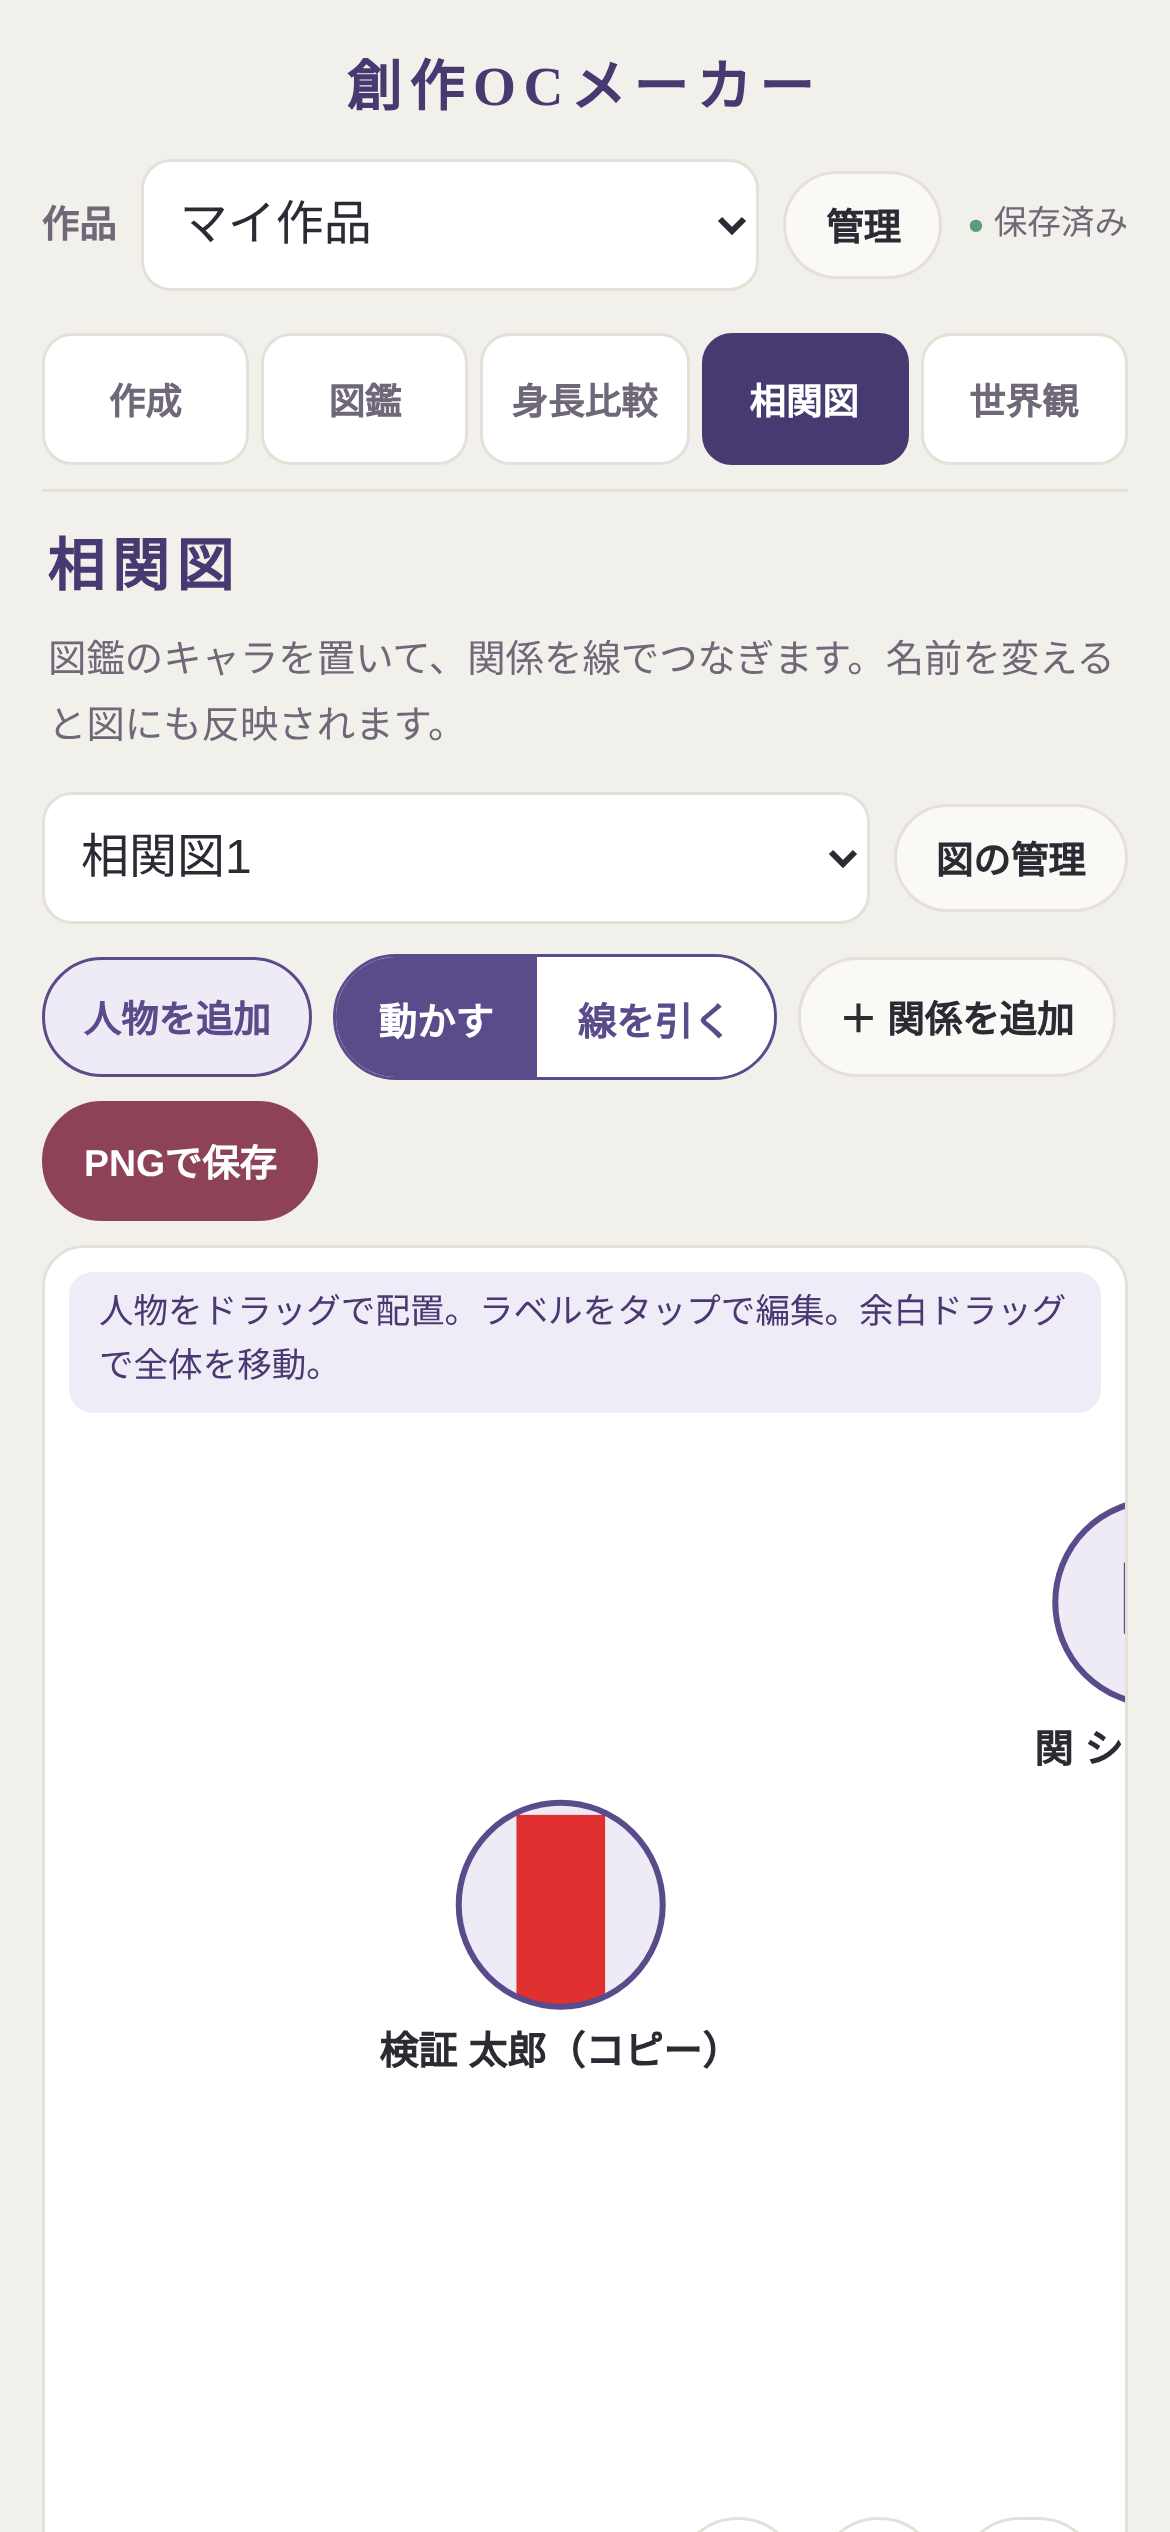
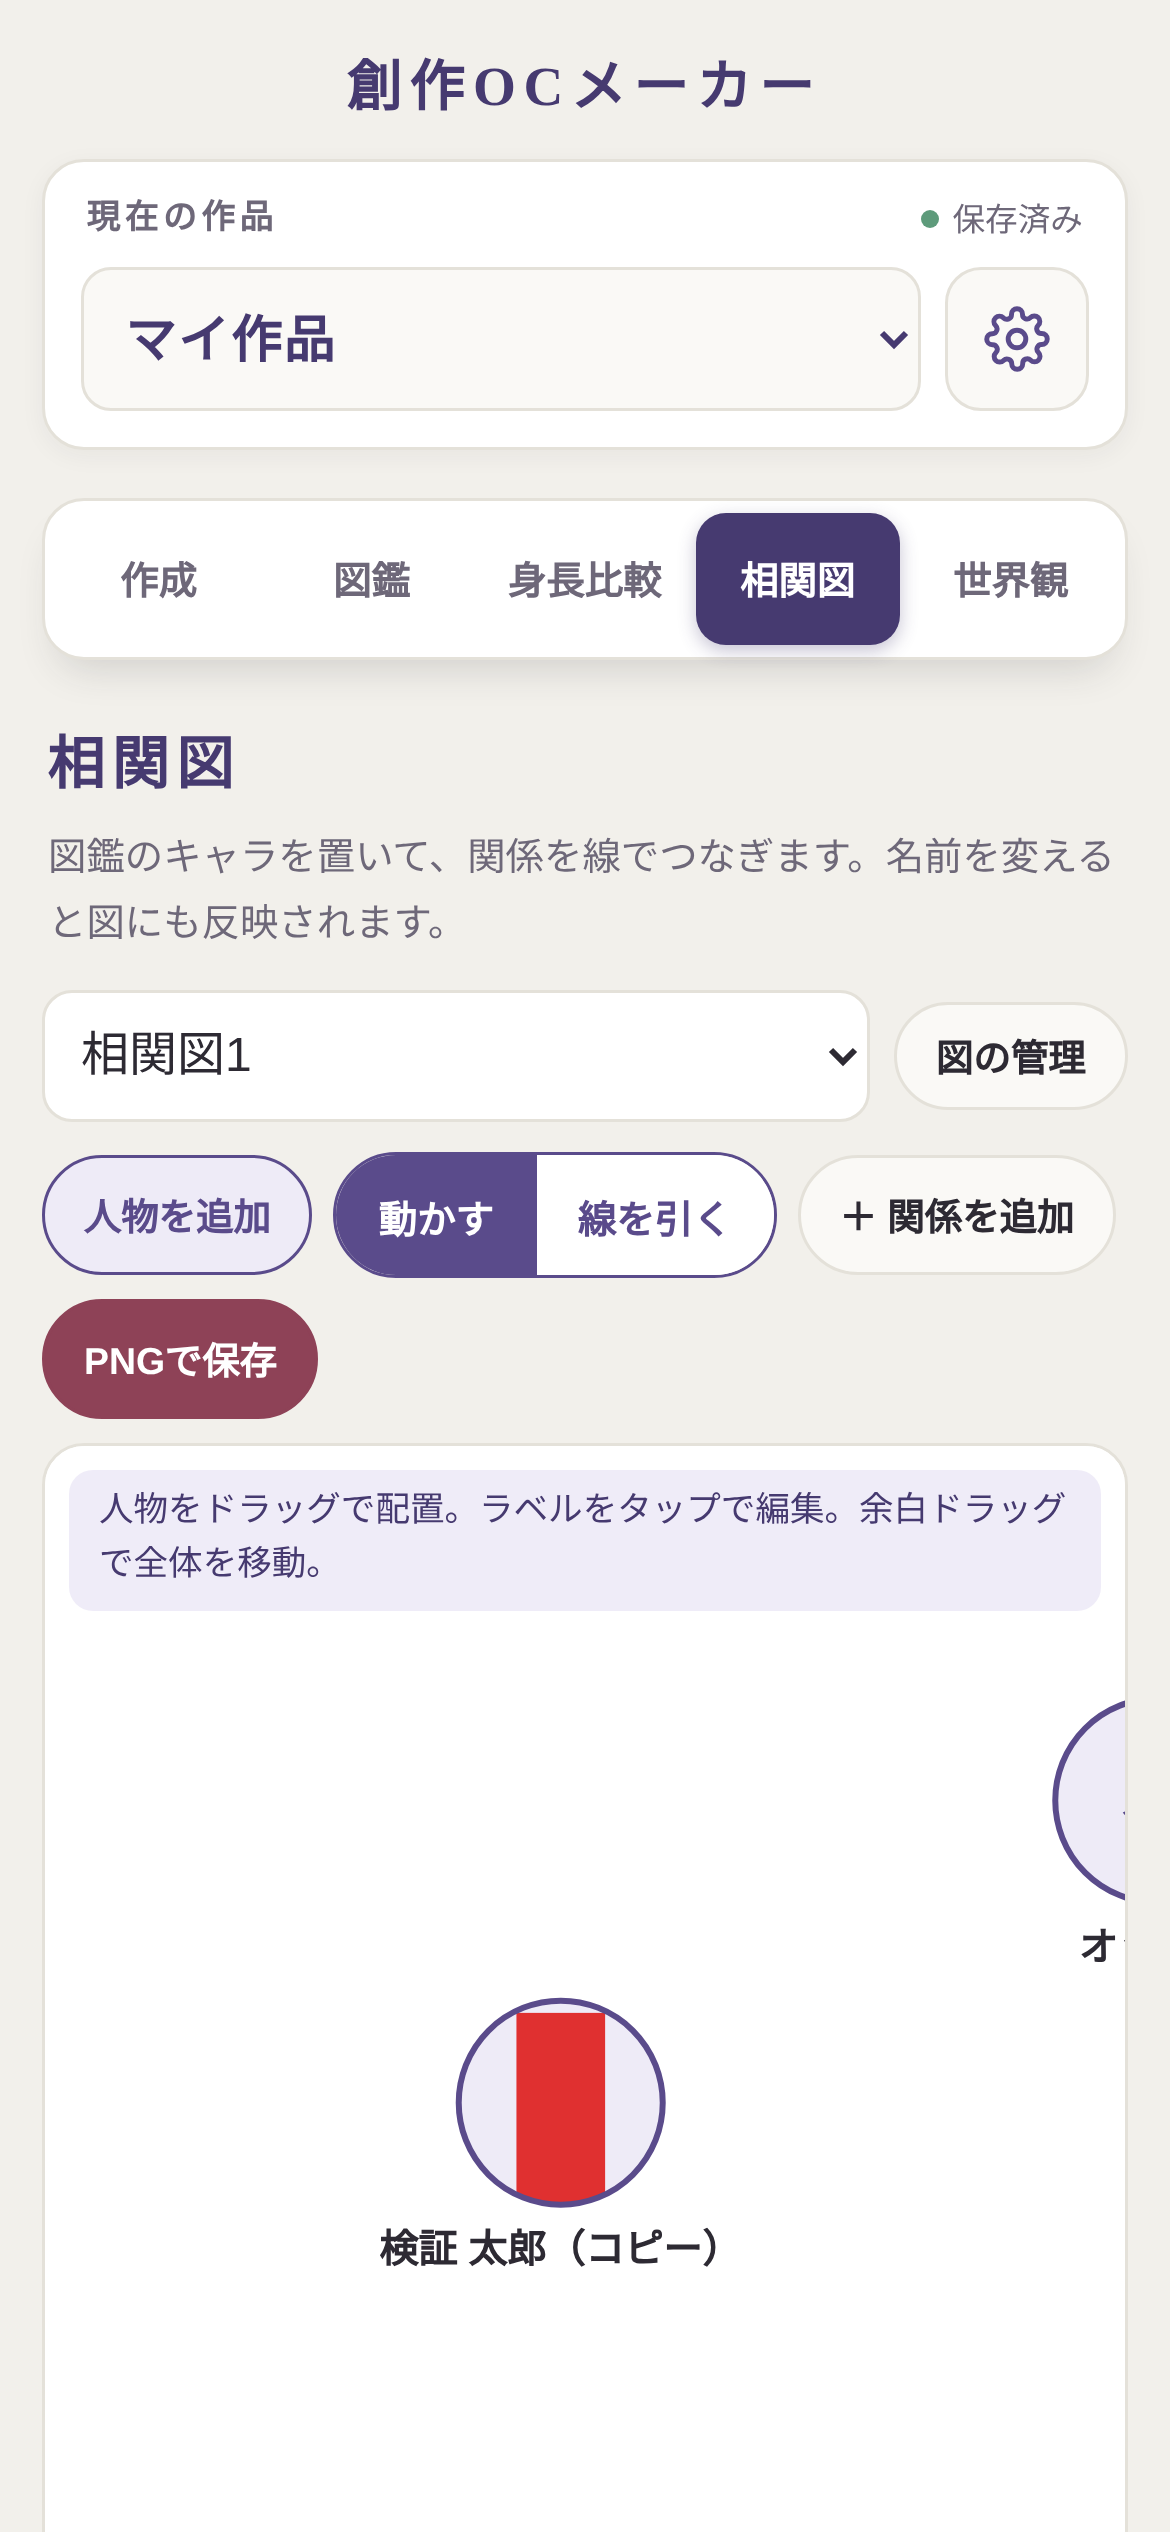
v2.0.1: 画面上部のレイアウト整理と名前辞典の版数表記の統一（表示のみ）
- 「現在の作品」を独立セクション化、管理は歯車ボタン、保存状態は見出し行の右へ
- 5タブを一体型の切り替えバーにし、スマホ幅向けに文字・余白・幅を調整
- 「ガチャ／名前辞典」を下線型の下位メニューにして主タブと区別
- 名前辞典のタイトルとヘッダーをv2.0に統一（機能・データは変更なし）

Claude-Session: https://claude.ai/code/session_0137U42XBBGUmL8RNiqbLuA1

diff --git a/css/studio.css b/css/studio.css
@@ -1,21 +1,34 @@
 /* 創作OCメーカー v2.0 — 図鑑・身長比較・相関図・世界観の共通スタイル（既存の配色変数を使う） */
-.st-bar{display:flex;align-items:center;gap:8px;margin:0 0 8px;flex-wrap:wrap}
-.st-bar label{font-size:.78rem;color:var(--sub);font-weight:600}
-.st-bar select{flex:1;min-width:0}
-.st-status{font-size:.7rem;color:var(--sub);white-space:nowrap}
-.st-status::before{content:"●";color:#5E9B7B;margin-right:3px;font-size:.6rem}
-.st-status.busy::before{color:#C9A227}.st-status.err{color:var(--wine)}.st-status.err::before{color:var(--wine)}
+/* ---------- 現在の作品 ---------- */
+.st-project{background:var(--card);border:1px solid var(--line);border-radius:var(--radius);padding:10px 12px 12px;margin:0 0 16px;box-shadow:0 2px 8px rgba(45,42,51,.05)}
+.st-project-head{display:flex;align-items:center;justify-content:space-between;gap:8px;margin:0 2px 6px}
+.st-project-head label{font-size:.7rem;color:var(--sub);font-weight:700;letter-spacing:.14em}
+.st-project-row{display:flex;align-items:center;gap:8px}
+.st-project .st-project-row select{flex:1;min-width:0;font-family:var(--serif);font-weight:600;font-size:1.06rem;letter-spacing:.04em;color:var(--accent-deep);background:#FAF9F6;min-height:48px;padding:9px 10px;text-overflow:ellipsis}
+.st-gear{flex:none;width:48px;height:48px;border-radius:12px;border:1.5px solid var(--line);background:#FAF9F6;color:var(--accent);display:inline-flex;align-items:center;justify-content:center;cursor:pointer;padding:0}
+.st-gear:active{background:var(--accent-soft)}
+.st-status{font-size:.68rem;color:var(--sub);white-space:nowrap}
+.st-status::before{content:"";display:inline-block;width:6px;height:6px;border-radius:50%;background:#5E9B7B;margin-right:5px;vertical-align:.08em}
+.st-status.busy::before{background:#C9A227}.st-status.err{color:var(--wine);font-weight:700}.st-status.err::before{background:var(--wine)}
 #studioNotice{margin:0 0 10px}
-.st-tabs{position:sticky;top:0;z-index:20;display:grid;grid-template-columns:repeat(5,1fr);gap:4px;background:var(--bg);padding:6px 0 8px;margin:0 0 10px;border-bottom:1px solid var(--line)}
-.st-tabs button{border:1.5px solid var(--line);background:var(--card);color:var(--sub);border-radius:10px;padding:9px 0;min-height:44px;font-size:.76rem;font-weight:700;font-family:var(--sans);cursor:pointer;letter-spacing:0;white-space:nowrap}
-.st-tabs button[aria-selected="true"]{background:var(--accent-deep);border-color:var(--accent-deep);color:#fff}
-@media (min-width:480px){.st-tabs button{font-size:.86rem}}
+/* ---------- 主タブ（最上位の切り替え）。追従時は外側の影で下の内容を隠す ---------- */
+.st-tabs{position:sticky;top:6px;z-index:20;display:grid;grid-template-columns:repeat(5,minmax(0,1fr));gap:3px;padding:5px;margin:0 0 20px}
+.st-tabs::before{content:"";position:absolute;inset:-8px -6px -7px;background:var(--bg);z-index:-2}
+.st-tabs::after{content:"";position:absolute;inset:0;background:var(--card);border:1px solid var(--line);border-radius:14px;box-shadow:0 8px 14px -6px rgba(45,42,51,.18);z-index:-1}
+.st-tabs button{border:0;background:none;color:var(--sub);border-radius:10px;padding:0 2px;min-height:44px;font-size:.8rem;font-weight:700;font-family:var(--sans);cursor:pointer;letter-spacing:0;white-space:nowrap;line-height:1.2}
+.st-tabs button[aria-selected="true"]{background:var(--accent-deep);color:#fff;box-shadow:0 2px 6px rgba(70,58,112,.3)}
+@media (max-width:360px){.st-tabs button{font-size:.7rem}}
+@media (min-width:480px){.st-tabs button{font-size:.9rem;min-height:46px}}
+/* 「ガチャ／名前辞典」は作成タブの中の下位メニュー。主タブと区別するため下線型にする */
+#tab-create .site-nav{gap:20px;margin:0 2px 18px;border-bottom:1px solid var(--line)}
+#tab-create .site-nav a{flex:none;border:0;border-radius:0;background:none;color:var(--sub);font-size:.84rem;padding:12px 2px 10px;border-bottom:2px solid transparent;margin-bottom:-1px}
+#tab-create .site-nav a[aria-current]{background:none;color:var(--accent-deep);font-weight:700;border-bottom-color:var(--accent)}
 .tab-panel[hidden]{display:none}
-.tab-panel select,.st-bar select,.st-sheet select{font-family:var(--sans);font-size:16px;color:var(--ink);background:var(--card);border:1.5px solid var(--line);border-radius:10px;padding:9px 8px;min-height:44px;max-width:100%}
+.tab-panel select,.st-sheet select,.st-project select{font-family:var(--sans);font-size:16px;color:var(--ink);background:var(--card);border:1.5px solid var(--line);border-radius:10px;padding:9px 8px;min-height:44px;max-width:100%}
 .st-input,.st-field input,.st-field textarea,.st-sec-body>textarea,.zk-var-row input,.zk-custom input,.zk-custom textarea,.hc-cm input{
   width:100%;font-family:var(--sans);font-size:16px;color:var(--ink);background:var(--card);border:1.5px solid var(--line);border-radius:10px;padding:10px;line-height:1.6}
 .st-field textarea,.st-sec-body>textarea,.zk-custom textarea{resize:vertical;field-sizing:content;min-height:3.2em}
-.st-input:focus,.st-field input:focus,.st-field textarea:focus,.st-sec-body>textarea:focus,.tab-panel select:focus,.st-sheet select:focus,.zk-var-row input:focus,.zk-custom input:focus,.zk-custom textarea:focus,.hc-cm input:focus{outline:2px solid var(--accent);outline-offset:1px;border-color:var(--accent)}
+.st-input:focus,.st-field input:focus,.st-field textarea:focus,.st-sec-body>textarea:focus,.tab-panel select:focus,.st-sheet select:focus,.st-project select:focus,.st-gear:focus-visible,.zk-var-row input:focus,.zk-custom input:focus,.zk-custom textarea:focus,.hc-cm input:focus{outline:2px solid var(--accent);outline-offset:1px;border-color:var(--accent)}
 .st-h{font-family:var(--serif);font-size:1.2rem;letter-spacing:.12em;color:var(--accent-deep);margin:8px 2px 2px}
 .st-h3{font-family:var(--serif);font-size:1rem;letter-spacing:.1em;color:var(--accent-deep);margin:20px 2px 8px}
 .st-lead{font-size:.8rem;color:var(--sub);margin:0 2px 12px}

diff --git a/index.html b/index.html
@@ -317,12 +317,16 @@ button:focus-visible,summary:focus-visible,a:focus-visible{outline:2px solid var
   <div class="rule"></div>
 </header>
 
-<div class="st-bar" id="studioBar">
-  <label for="projectSelect">作品</label>
-  <select id="projectSelect" aria-label="作品を選ぶ"></select>
-  <button id="projectMenuBtn" class="btn-sm" type="button">管理</button>
-  <span id="saveStatus" class="st-status" role="status"></span>
-</div>
+<section class="st-project" id="studioBar" aria-label="現在の作品">
+  <div class="st-project-head">
+    <label for="projectSelect">現在の作品</label>
+    <span id="saveStatus" class="st-status" role="status"></span>
+  </div>
+  <div class="st-project-row">
+    <select id="projectSelect" aria-label="作品を選ぶ"></select>
+    <button id="projectMenuBtn" class="st-gear" type="button" aria-label="作品の管理" title="作品の管理"><svg viewBox="0 0 24 24" width="22" height="22" aria-hidden="true" fill="none" stroke="currentColor" stroke-width="1.8" stroke-linecap="round" stroke-linejoin="round"><circle cx="12" cy="12" r="3.2"/><path d="M19.4 15a1.65 1.65 0 0 0 .33 1.82l.06.06a2 2 0 1 1-2.83 2.83l-.06-.06a1.65 1.65 0 0 0-1.82-.33 1.65 1.65 0 0 0-1 1.51V21a2 2 0 1 1-4 0v-.09A1.65 1.65 0 0 0 9 19.4a1.65 1.65 0 0 0-1.82.33l-.06.06a2 2 0 1 1-2.83-2.83l.06-.06a1.65 1.65 0 0 0 .33-1.82 1.65 1.65 0 0 0-1.51-1H3a2 2 0 1 1 0-4h.09A1.65 1.65 0 0 0 4.6 9a1.65 1.65 0 0 0-.33-1.82l-.06-.06a2 2 0 1 1 2.83-2.83l.06.06a1.65 1.65 0 0 0 1.82.33H9a1.65 1.65 0 0 0 1-1.51V3a2 2 0 1 1 4 0v.09a1.65 1.65 0 0 0 1 1.51 1.65 1.65 0 0 0 1.82-.33l.06-.06a2 2 0 1 1 2.83 2.83l-.06.06a1.65 1.65 0 0 0-.33 1.82V9a1.65 1.65 0 0 0 1.51 1H21a2 2 0 1 1 0 4h-.09a1.65 1.65 0 0 0-1.51 1z"/></svg></button>
+  </div>
+</section>
 <p id="studioNotice" class="naming-notice" role="alert" hidden></p>
 <div class="st-tabs" id="studioTabs" role="tablist" aria-label="機能の切り替え">
   <button type="button" role="tab" data-tab="create" aria-controls="tab-create" aria-selected="true">作成</button>

diff --git a/dictionary.html b/dictionary.html
@@ -3,7 +3,7 @@
 <head>
 <meta charset="UTF-8">
 <meta name="viewport" content="width=device-width, initial-scale=1.0, viewport-fit=cover">
-<title>名前辞典 | 創作OCメーカー v1.7</title>
+<title>名前辞典 | 創作OCメーカー v2.0</title>
 <link rel="icon" href="./icons/favicon-32.png" sizes="32x32">
 <link rel="apple-touch-icon" href="./icons/apple-touch-icon.png">
 <link rel="stylesheet" href="./dictionary.css">
@@ -11,7 +11,7 @@
 <script src="./js/dictionary-page.js" defer></script>
 </head>
 <body><main class="wrap">
-<header><p class="eyebrow">創作OCメーカー v1.7</p><h1>名前辞典</h1><p>自然や古典のことばから、キャラクターの種を探す。</p></header>
+<header><p class="eyebrow">創作OCメーカー v2.0</p><h1>名前辞典</h1><p>自然や古典のことばから、キャラクターの種を探す。</p></header>
 <nav class="site-nav" aria-label="画面切り替え"><a href="./index.html">ガチャ</a><a href="./dictionary.html" aria-current="page">名前辞典</a></nav>
 <p id="loadStatus" role="status">辞典を読み込んでいます…</p>
 <div id="loadError" role="alert" hidden><p>名前辞典を読み込めませんでした。接続を確認して再読み込みしてください。</p><button id="retry" type="button">再読み込み</button></div>

diff --git a/js/studio/zukan.js b/js/studio/zukan.js
@@ -57,7 +57,7 @@ function renderGrid(){
   const list=visible();
   A.$("zkCount").textContent=S.chars.length?list.length+"人を表示（全"+S.chars.length+"人）":"";
   if(!S.chars.length){
-    grid.innerHTML='<div class="empty-msg">まだキャラが登録されていません。<br>「キャラ作成」タブで生成したカードの「図鑑へ登録」を押すか、「白紙から作る」で追加できます。</div>';return;
+    grid.innerHTML='<div class="empty-msg">まだキャラが登録されていません。<br>「作成」タブで生成したカードの「図鑑へ登録」を押すか、「白紙から作る」で追加できます。</div>';return;
   }
   if(!list.length){grid.innerHTML='<div class="empty-msg">条件に合うキャラがいません。</div>';return;}
   grid.innerHTML=list.map(c=>{

diff --git a/js/studio/app.js b/js/studio/app.js
@@ -195,8 +195,8 @@ function showTab(key,opts){
   }
   if(!(opts&&opts.silent)){
     try{const u=new URL(location.href);u.hash=key==="create"?"":key;history.replaceState(null,"",u);}catch(e){}
-    const bar=$("studioBar");
-    if(bar&&window.scrollY>bar.offsetTop)window.scrollTo(0,bar.offsetTop);
+    const bar=$("studioTabs");
+    if(bar&&window.scrollY>bar.offsetTop-6)window.scrollTo(0,bar.offsetTop-6);
   }
   if(S.ready&&tabs[key]&&tabs[key].render)tabs[key].render();
 }

diff --git a/CHANGELOG.md b/CHANGELOG.md
@@ -1,5 +1,12 @@
 # 変更履歴
 
+## v2.0.1 — 画面上部の整理（表示のみ）
+
+- 「現在の作品」を独立したセクションにし、作品名の選択欄を主役に。管理は歯車ボタン、保存状態は見出し行の右へ。
+- 5タブを一体型の切り替えバーにして、スマホ幅での文字・余白・ボタン幅を調整。
+- 「ガチャ／名前辞典」を下線型の下位メニューにして、主タブと階層を区別。
+- 名前辞典のタイトルとヘッダーの版数表記をv2.0に統一（辞典の機能・データは変更なし）。
+
 ## v2.0 — 総合創作支援ツール化
 
 - 5タブ構成（作成・図鑑・身長比較・相関図・世界観）と、画面上部の作品プロジェクト管理（新規・名前変更・複製・削除）。
